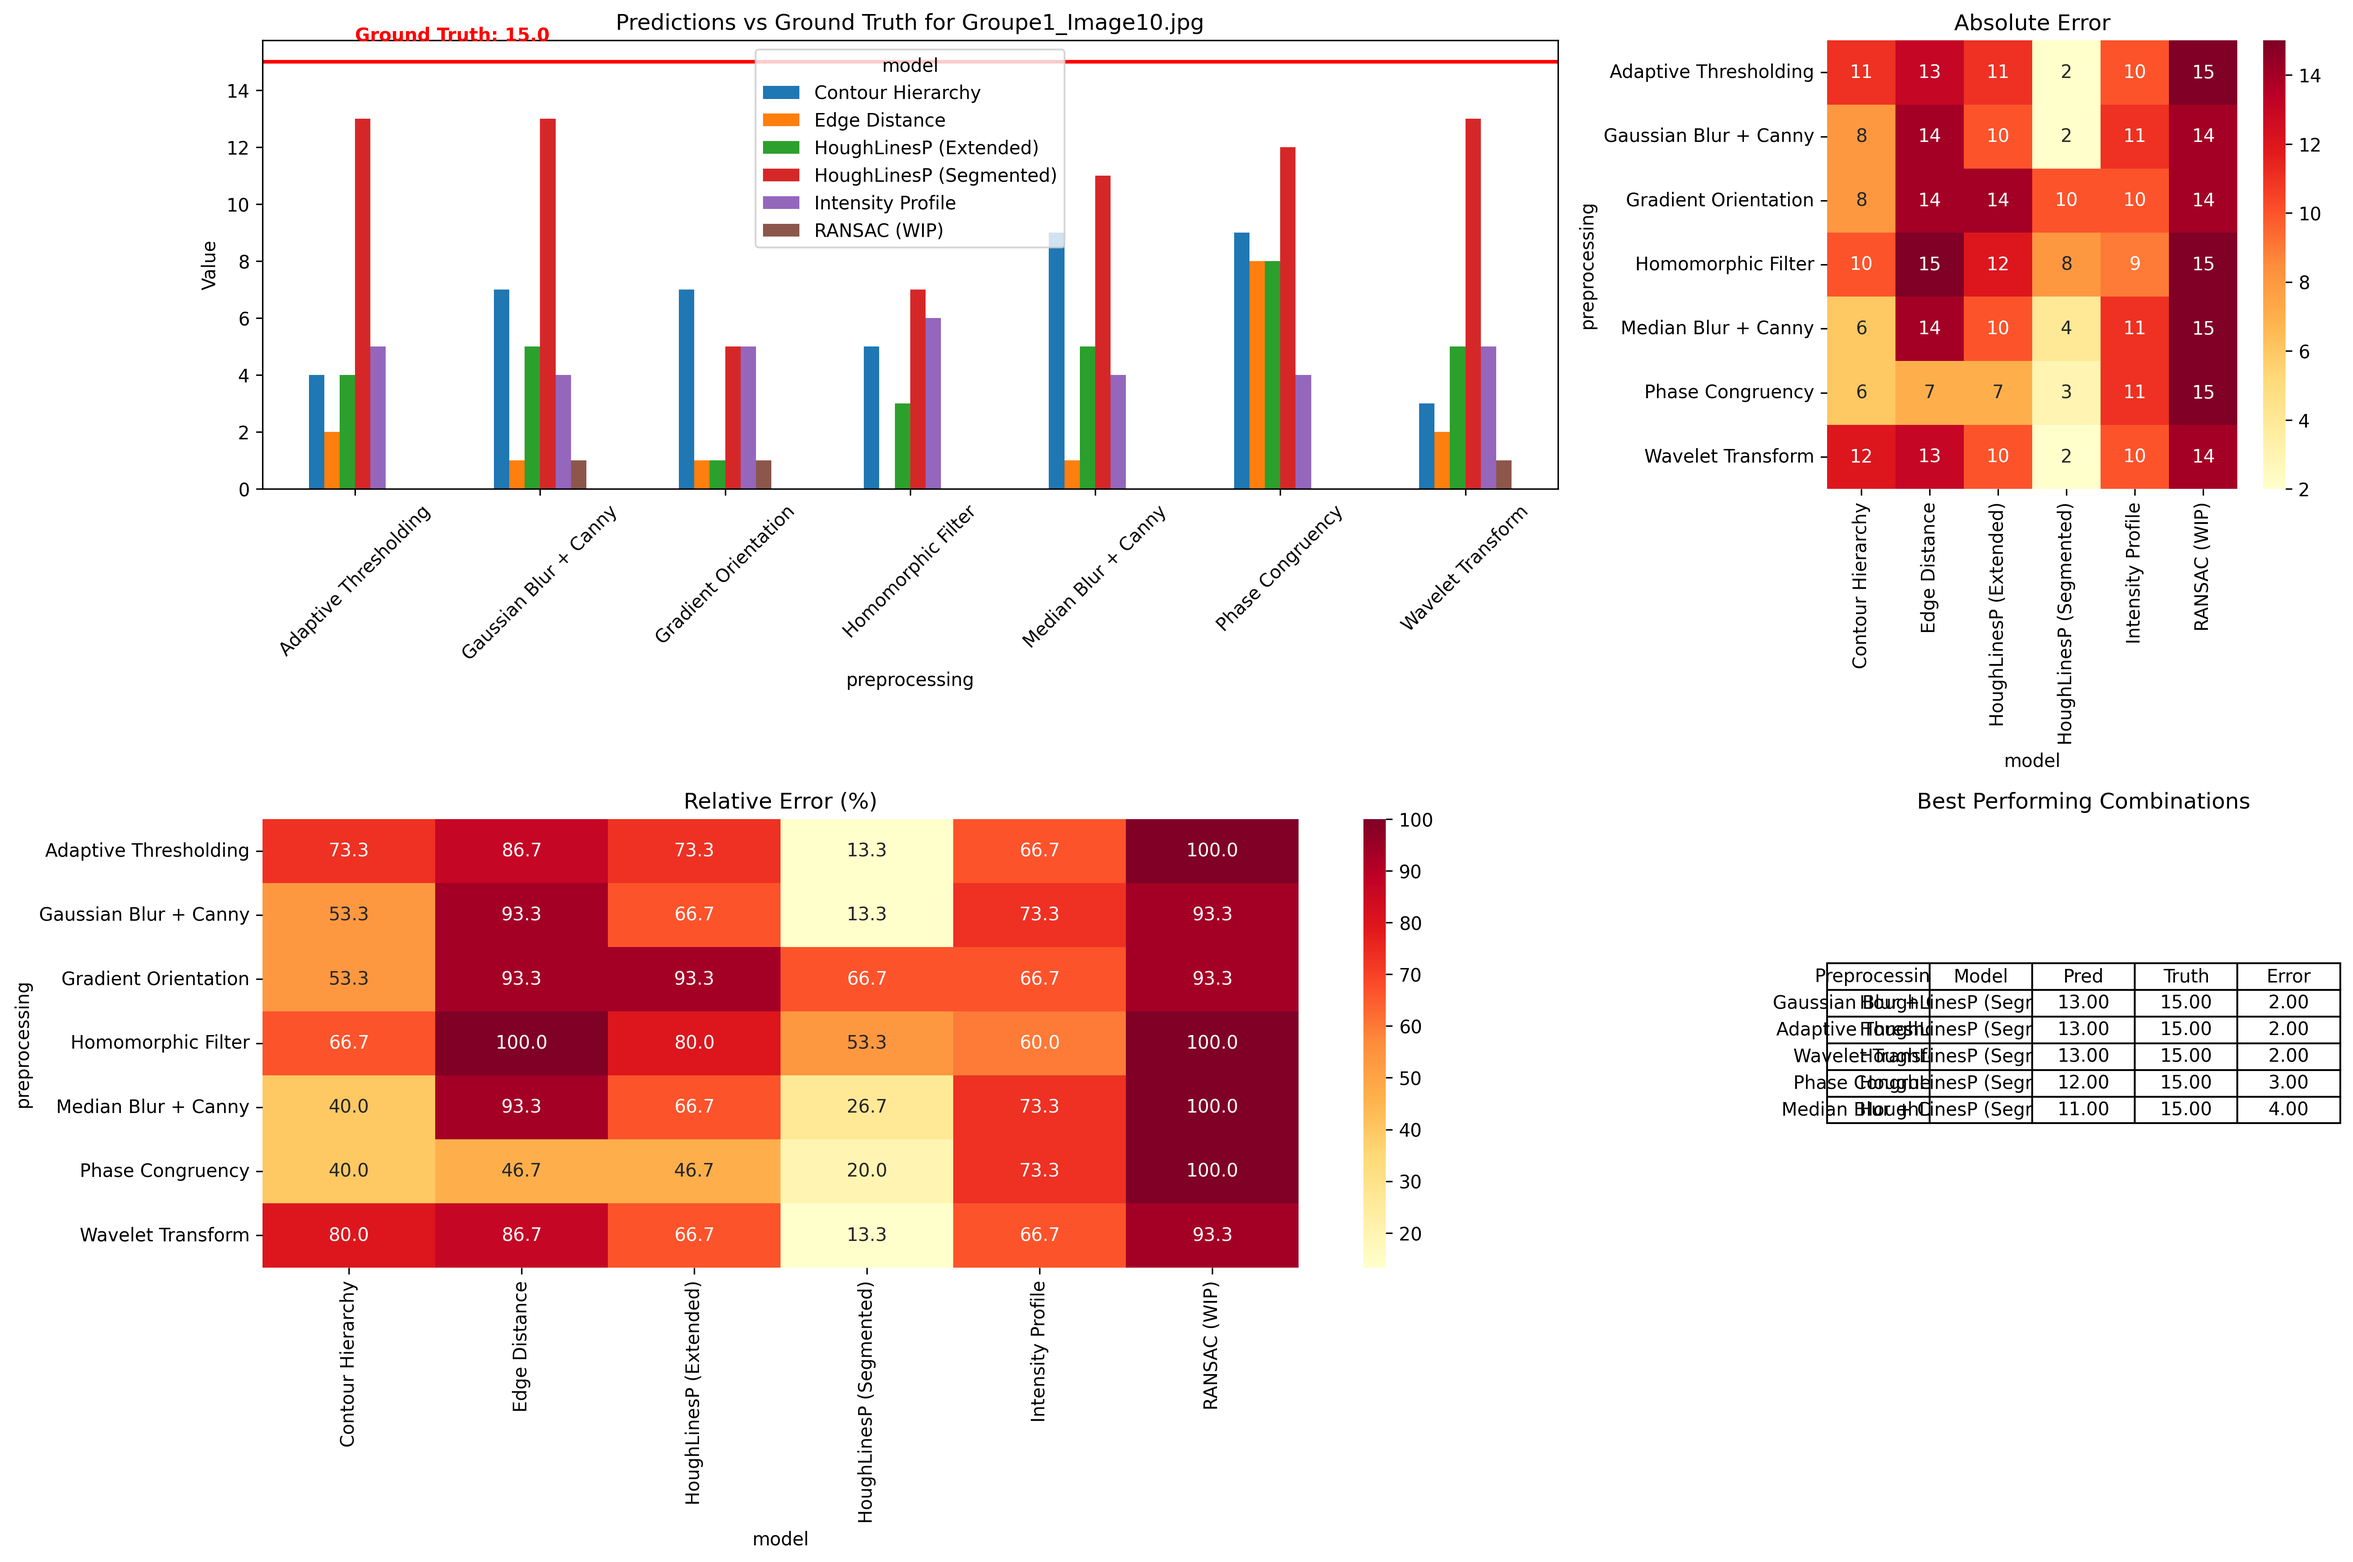
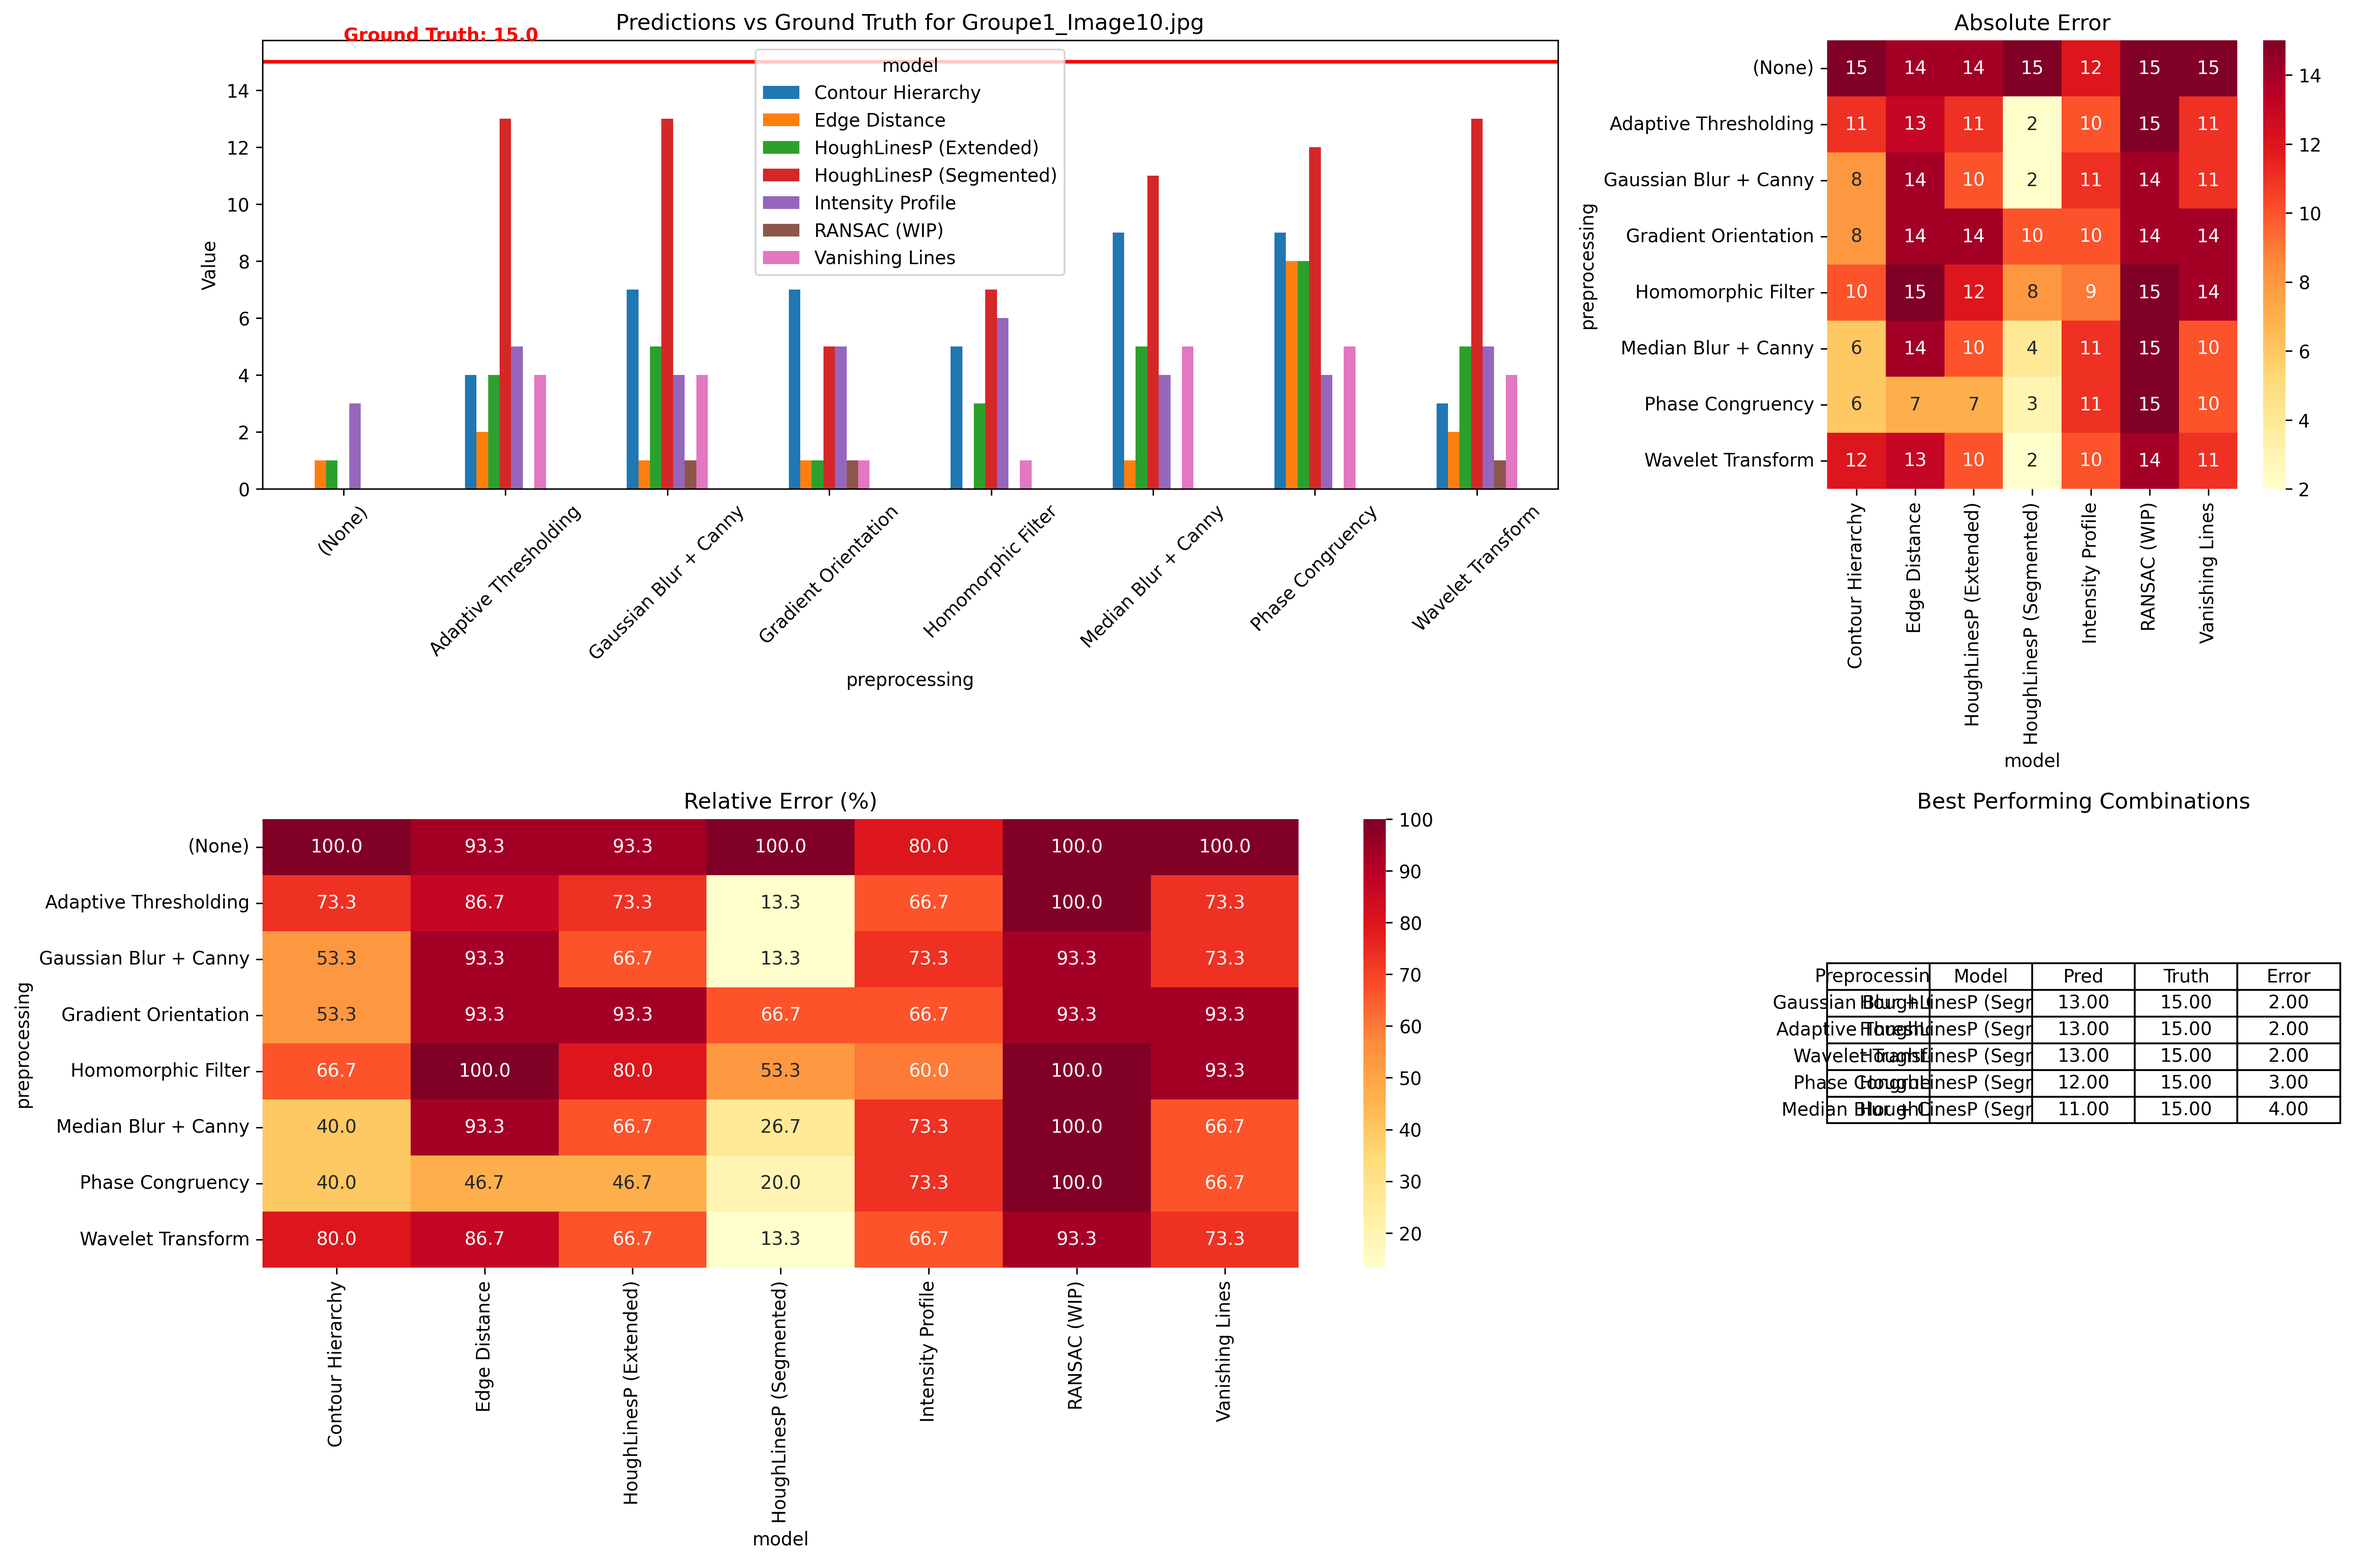
Update 1

diff --git a/src/evaluation.py b/src/evaluation.py
@@ -70,7 +70,7 @@ def evaluate_all_combinations(image_paths, ground_truth):
     
     # Definition des modeles et des preprocessing
     preprocessing_methods = {
-        #'(None)': lambda img: img.copy(),
+        '(None)': lambda img: img.copy(),
         'Gaussian Blur + Canny': preprocess_gaussian,
         'Median Blur + Canny': preprocess_median,
         #'Split and Merge': preprocess_splitAndMerge, #Trop Lourd
@@ -84,7 +84,7 @@ def evaluate_all_combinations(image_paths, ground_truth):
     models = {
         'HoughLinesP (Segmented)': detect_steps_houghLineSeg,
         'HoughLinesP (Extended)': detect_steps_houghLineExt,
-        #'Vanishing Lines': detect_vanishing_lines,
+        'Vanishing Lines': detect_vanishing_lines,
         'RANSAC (WIP)': detect_steps_RANSAC,
         'Intensity Profile': detect_steps_intensity_profile,
         'Contour Hierarchy': detect_steps_contour_hierarchy,

diff --git a/src/gui/gui.py b/src/gui/gui.py
@@ -136,7 +136,7 @@ class Interface(tk.Tk):
                 self.show_image()  # Affiche la première image
 
     def load_ground_truth(self):
-        gt_path = filedialog.askopenfilename(filetypes=[("JSON files", "*.json")])  # Ouvre une boîte de dialogue pour charger un fichier JSON
+        gt_path = filedialog.askopenfilename(initialdir='data', filetypes=[("JSON files", "*.json")])  # Ouvre une boîte de dialogue pour charger un fichier JSON
         if gt_path:
             with open(gt_path, 'r') as f:
                 data = json.load(f)
